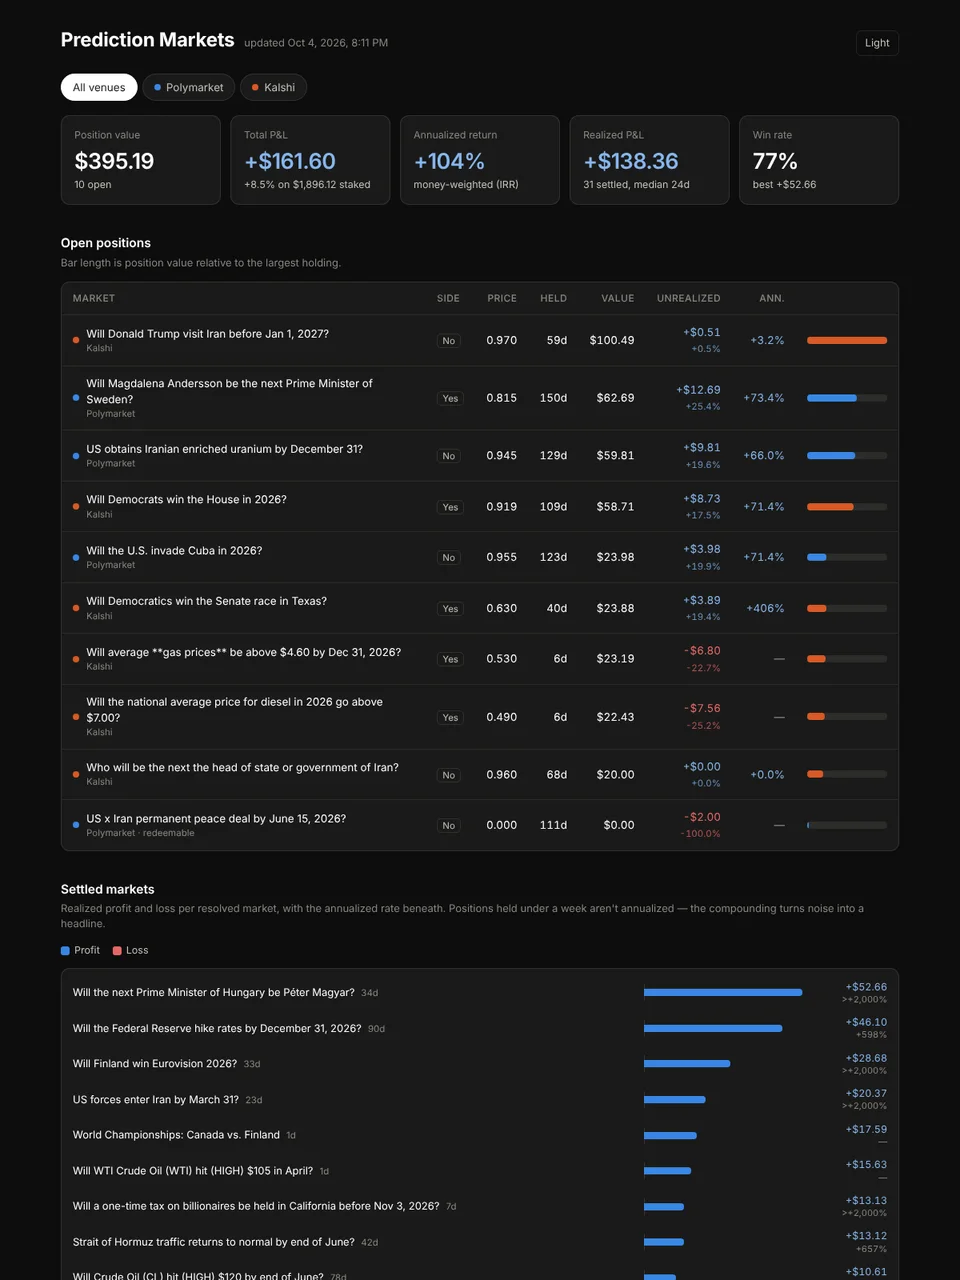
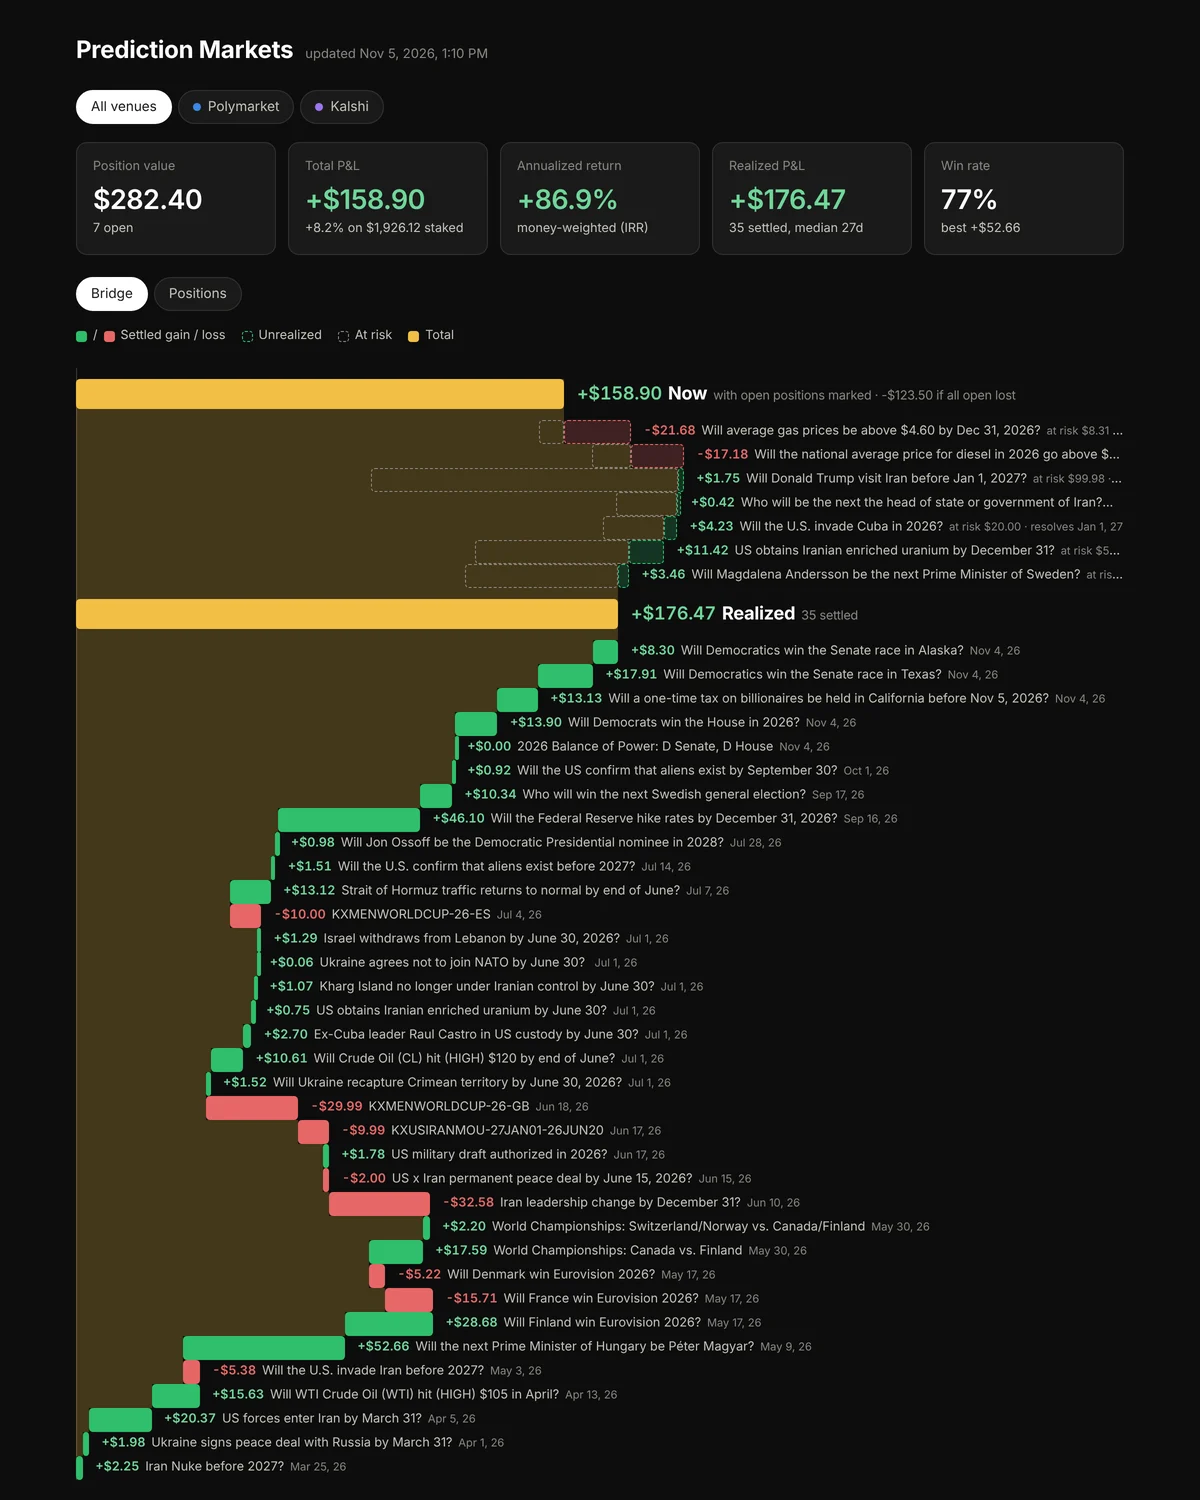
Add files via upload

diff --git a/prediction-markets/index.html b/prediction-markets/index.html
@@ -5,45 +5,7 @@
 <meta name="viewport" content="width=device-width, initial-scale=1">
 <title>Prediction Markets</title>
 <style>
-  :root {
-    color-scheme: light;
-    --surface-1:      #fcfcfb;
-    --plane:          #f9f9f7;
-    --text-primary:   #0b0b0b;
-    --text-secondary: #52514e;
-    --text-muted:     #898781;
-    --grid:           #e1e0d9;
-    --baseline:       #c3c2b7;
-    --border:         rgba(11,11,11,0.10);
-    --venue-poly:     #2a78d6;
-    --venue-kalshi:   #7c4ddb;
-    --gain:           #22a05a;
-    --loss:           #e34948;
-    --gain-text:      #17733f;
-    --loss-text:      #b32e2d;
-    --total:          #e3a21a;
-  }
-  @media (prefers-color-scheme: dark) {
-    :root:not([data-theme="light"]) {
-      color-scheme: dark;
-      --surface-1:      #1a1a19;
-      --plane:          #0d0d0d;
-      --text-primary:   #ffffff;
-      --text-secondary: #c3c2b7;
-      --text-muted:     #898781;
-      --grid:           #2c2c2a;
-      --baseline:       #383835;
-      --border:         rgba(255,255,255,0.10);
-      --venue-poly:     #3987e5;
-      --venue-kalshi:   #9b74ee;
-      --gain:           #2fbf6c;
-      --loss:           #e66767;
-      --gain-text:      #6fd69a;
-      --loss-text:      #e66767;
-      --total:          #f2bf45;
-    }
-  }
-  :root[data-theme="dark"] {
+  :root {   /* dark only */
     color-scheme: dark;
     --surface-1:      #1a1a19;
     --plane:          #0d0d0d;
@@ -208,9 +170,7 @@
   footer { margin-top: 40px; font-size: 12.5px; color: var(--text-muted); }
   footer a { color: inherit; }
 
-  #tip { --tip-gain: #6fd69a; --tip-loss: #ff8a8a; }
-  @media (prefers-color-scheme: dark) { :root:not([data-theme="light"]) #tip { --tip-gain: #17733f; --tip-loss: #b32e2d; } }
-  :root[data-theme="dark"] #tip { --tip-gain: #17733f; --tip-loss: #b32e2d; }
+  #tip { --tip-gain: #17733f; --tip-loss: #b32e2d; }
   #tip .t { display: block; font-weight: 600; font-size: 13px; margin-bottom: 3px; }
   #tip .m { display: block; opacity: .7; font-size: 12px; margin-bottom: 4px; }
   #tip b { font-weight: 600; } #tip .up { color: var(--tip-gain); } #tip .dn { color: var(--tip-loss); }
@@ -231,7 +191,6 @@
   <header>
     <h1>Prediction Markets</h1>
     <span class="stamp" id="stamp"></span>
-    <button class="theme-btn" id="theme">Dark</button>
   </header>
 
   <div id="notices"></div>
@@ -552,24 +511,6 @@ function renderAll() {
   renderFilters(); renderTiles(); renderOpen(); renderClosed(); renderBridge(); renderView();
 }
 
-/* ---------- theme ---------- */
-const themeBtn = document.getElementById('theme');
-function applyTheme(t) {
-  if (t) document.documentElement.dataset.theme = t;
-  const dark = document.documentElement.dataset.theme === 'dark' ||
-    (!document.documentElement.dataset.theme &&
-      matchMedia('(prefers-color-scheme: dark)').matches);
-  themeBtn.textContent = dark ? 'Light' : 'Dark';
-}
-themeBtn.onclick = () => {
-  const dark = document.documentElement.dataset.theme === 'dark' ||
-    (!document.documentElement.dataset.theme &&
-      matchMedia('(prefers-color-scheme: dark)').matches);
-  const next = dark ? 'light' : 'dark';
-  applyTheme(next);
-  try { localStorage.setItem('pm-theme', next); } catch (e) {}
-};
-try { applyTheme(localStorage.getItem('pm-theme')); } catch (e) { applyTheme(); }
 
 /* ---------- boot ---------- */
 fetch('data.json?' + Date.now())

diff --git a/index.html b/index.html
@@ -345,7 +345,7 @@ const CARDS = [
  },
  {
   "id": "prediction-markets",
-  "aspect": "0.75",
+  "aspect": "0.8",
   "title": "Prediction markets",
   "url": "prediction-markets/",
   "made": "html",
@@ -353,10 +353,11 @@ const CARDS = [
    "sports & games"
   ],
   "kind": "dashboard",
-  "blurb": "Open positions and settled markets on Polymarket and Kalshi in one view.",
+  "blurb": "Open positions and settled markets on Polymarket and Kalshi in one view, with a bridge that builds the result bet by bet.",
   "thumb": "thumbs/full/prediction-markets.webp",
   "refresh": "automated",
   "added": "2026-09-18",
+  "updated": "2026-11-05",
   "data": "Polymarket + Kalshi APIs",
   "year": 2026
  },
